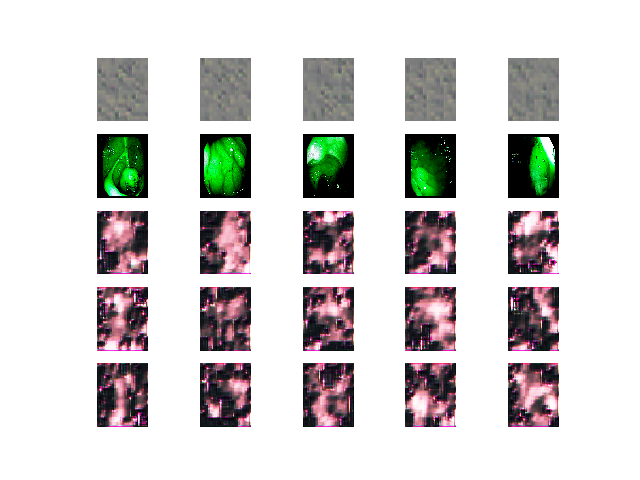
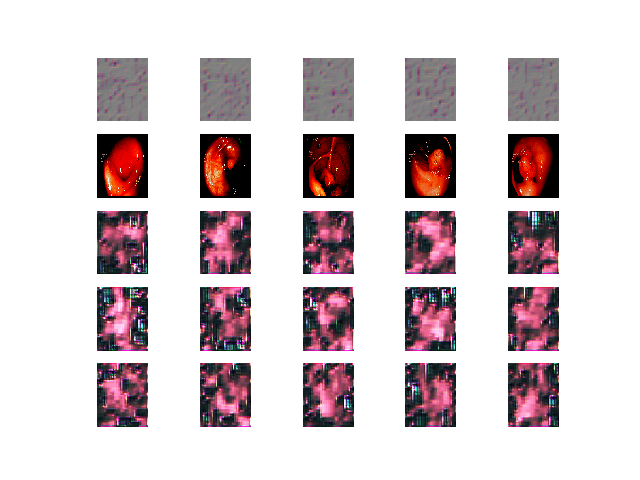
small changes

diff --git a/src/matkirpack/plotload/PlotLoad.py b/src/matkirpack/plotload/PlotLoad.py
@@ -20,7 +20,7 @@ def load_polyp_data(img_shape,data_type=None):
         path=os.path.join(folder,img)
         save=cv2.cvtColor(cv2.imread(path), cv2.COLOR_BGR2RGB)
         save=cv2.resize(save,(img_shape[1],img_shape[0]))
-        data[i]=(np.roll(np.array(save),1,axis=-1))
+        data[i]=save#(np.roll(np.array(save),1,axis=-1))
         i+=1
     data = (data.astype(np.float32) - 127.5) / 127.5
     np.save("train_data.npy", data)

diff --git a/src/gan/dcgan/GAN.py b/src/gan/dcgan/GAN.py
@@ -161,7 +161,7 @@ class GAN():
         if sample is None:
             gen3_imgs=gen_imgs
         else:
-            gen3_imgs=np.clip(sample,0,1)
+            gen3_imgs=np.clip(0.5*sample+0.5,0,1)
         try: 
             for i in range(r):
                 for j in range(c):
